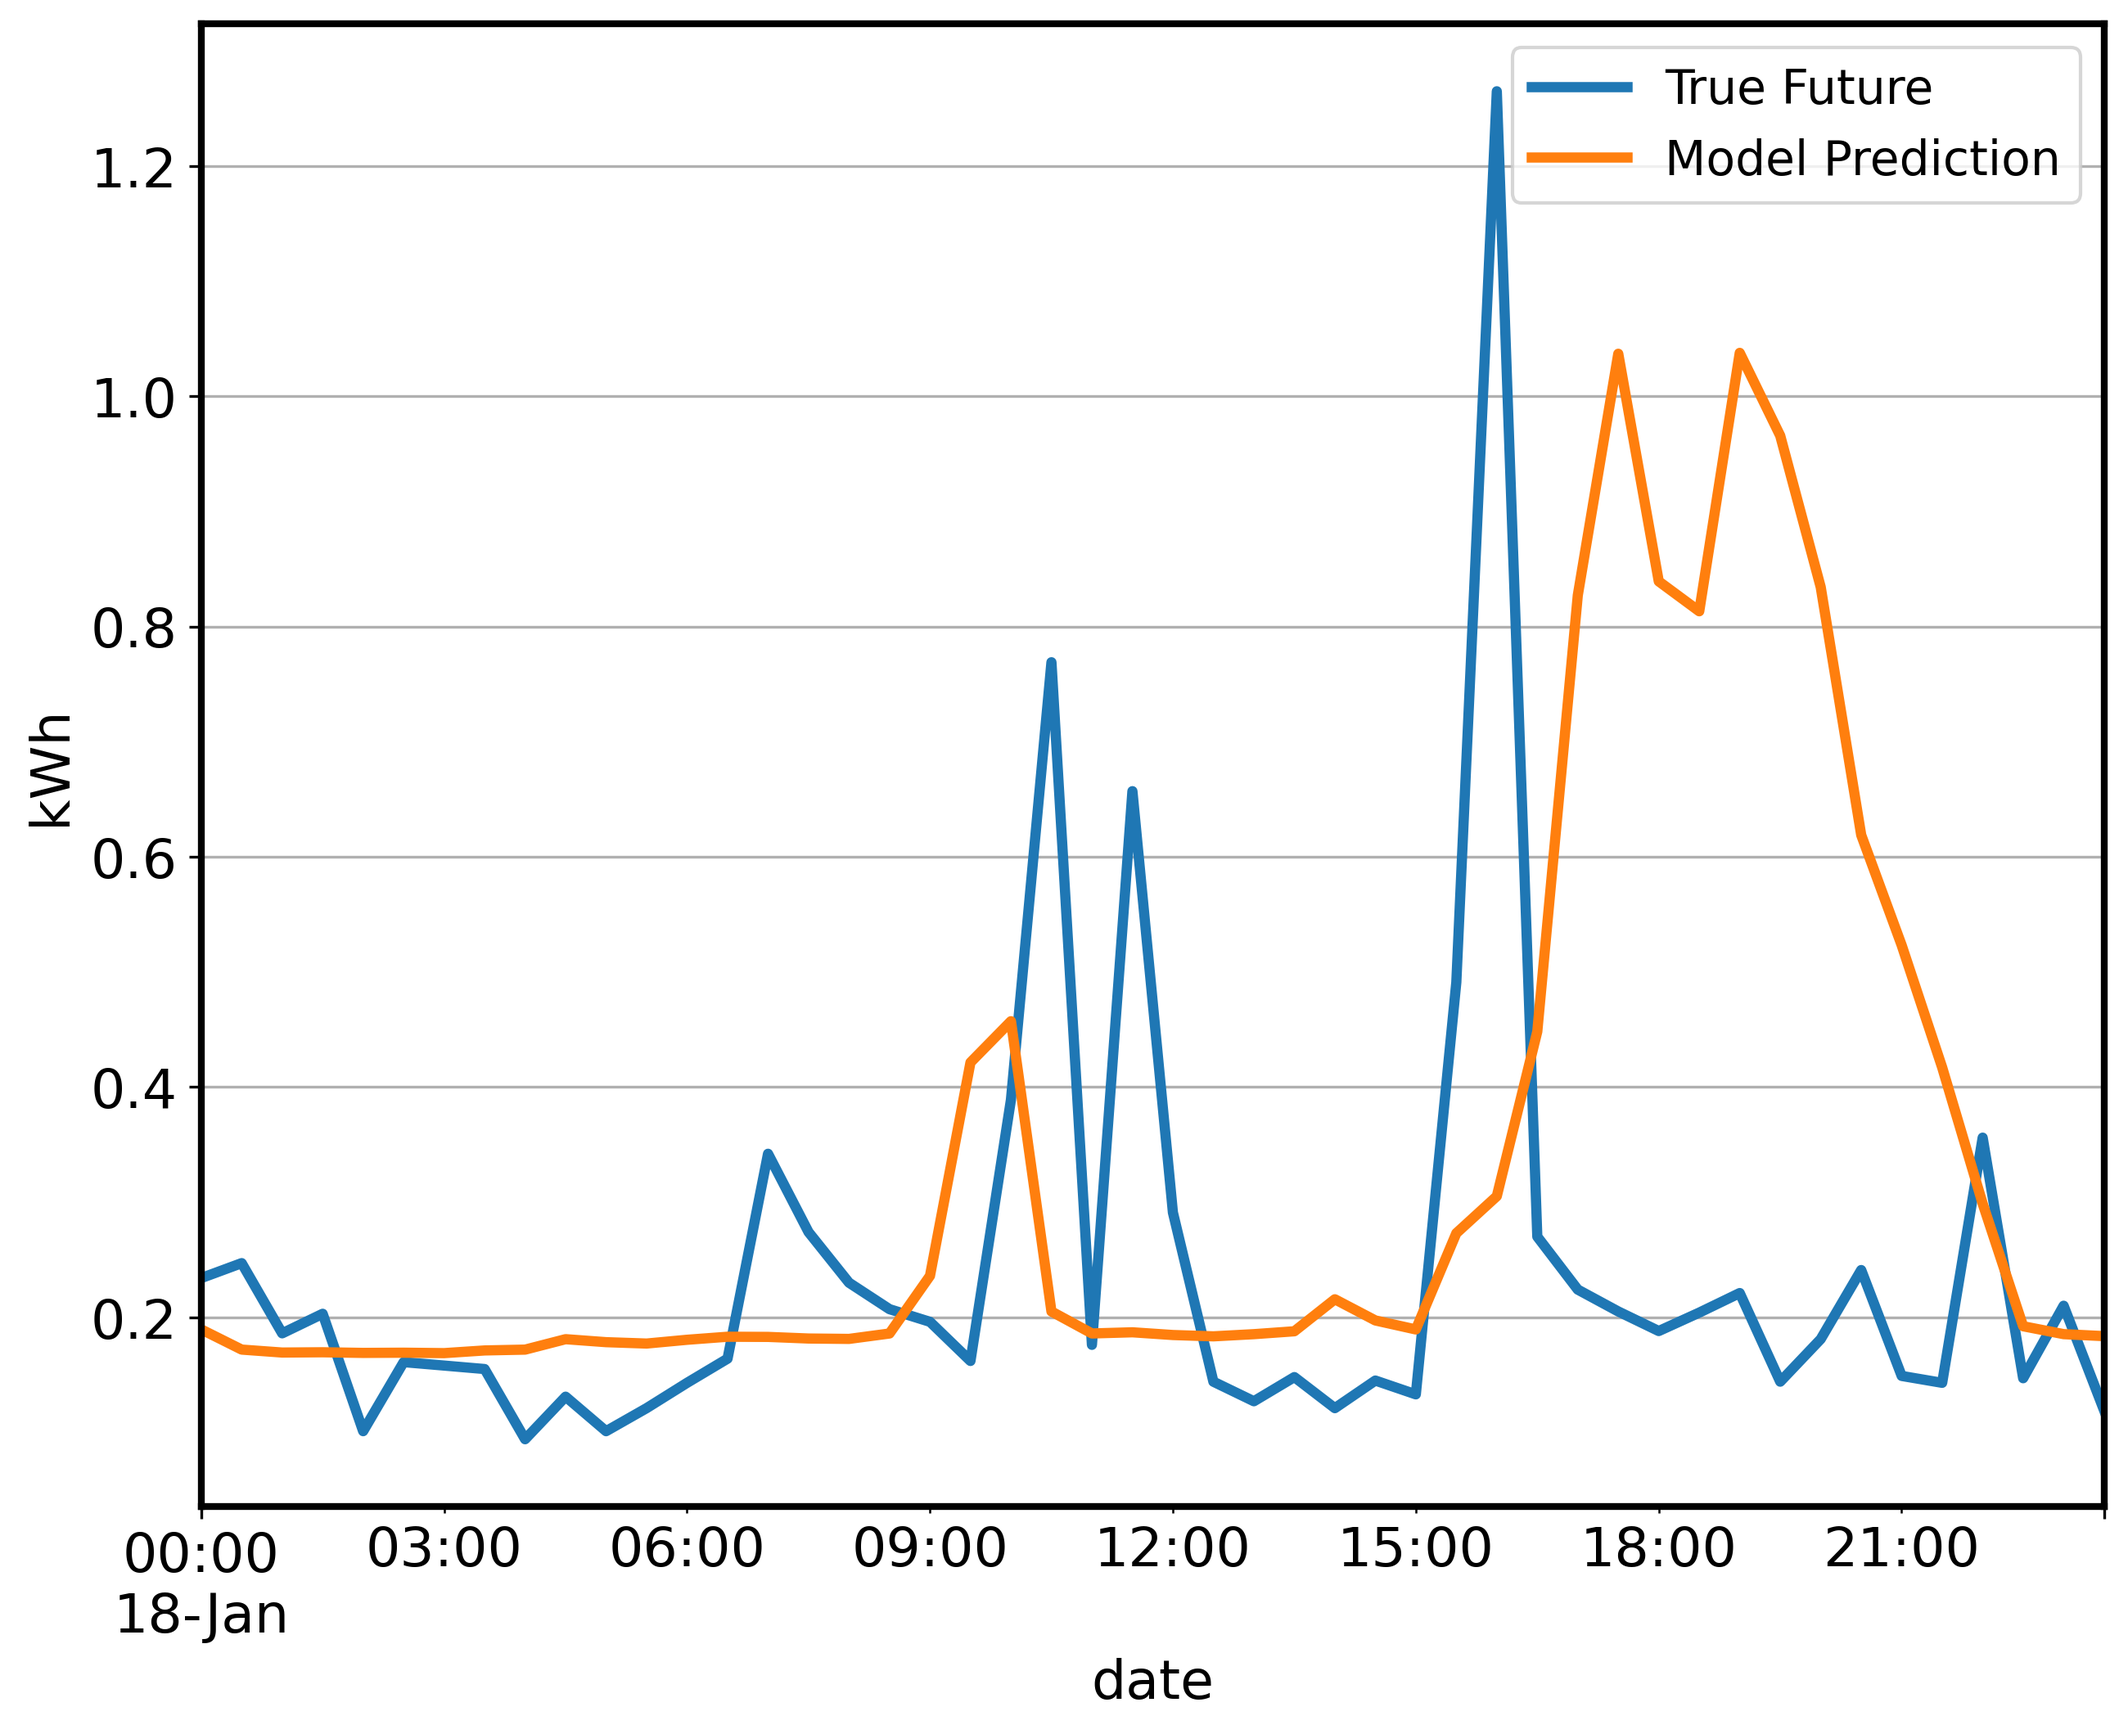
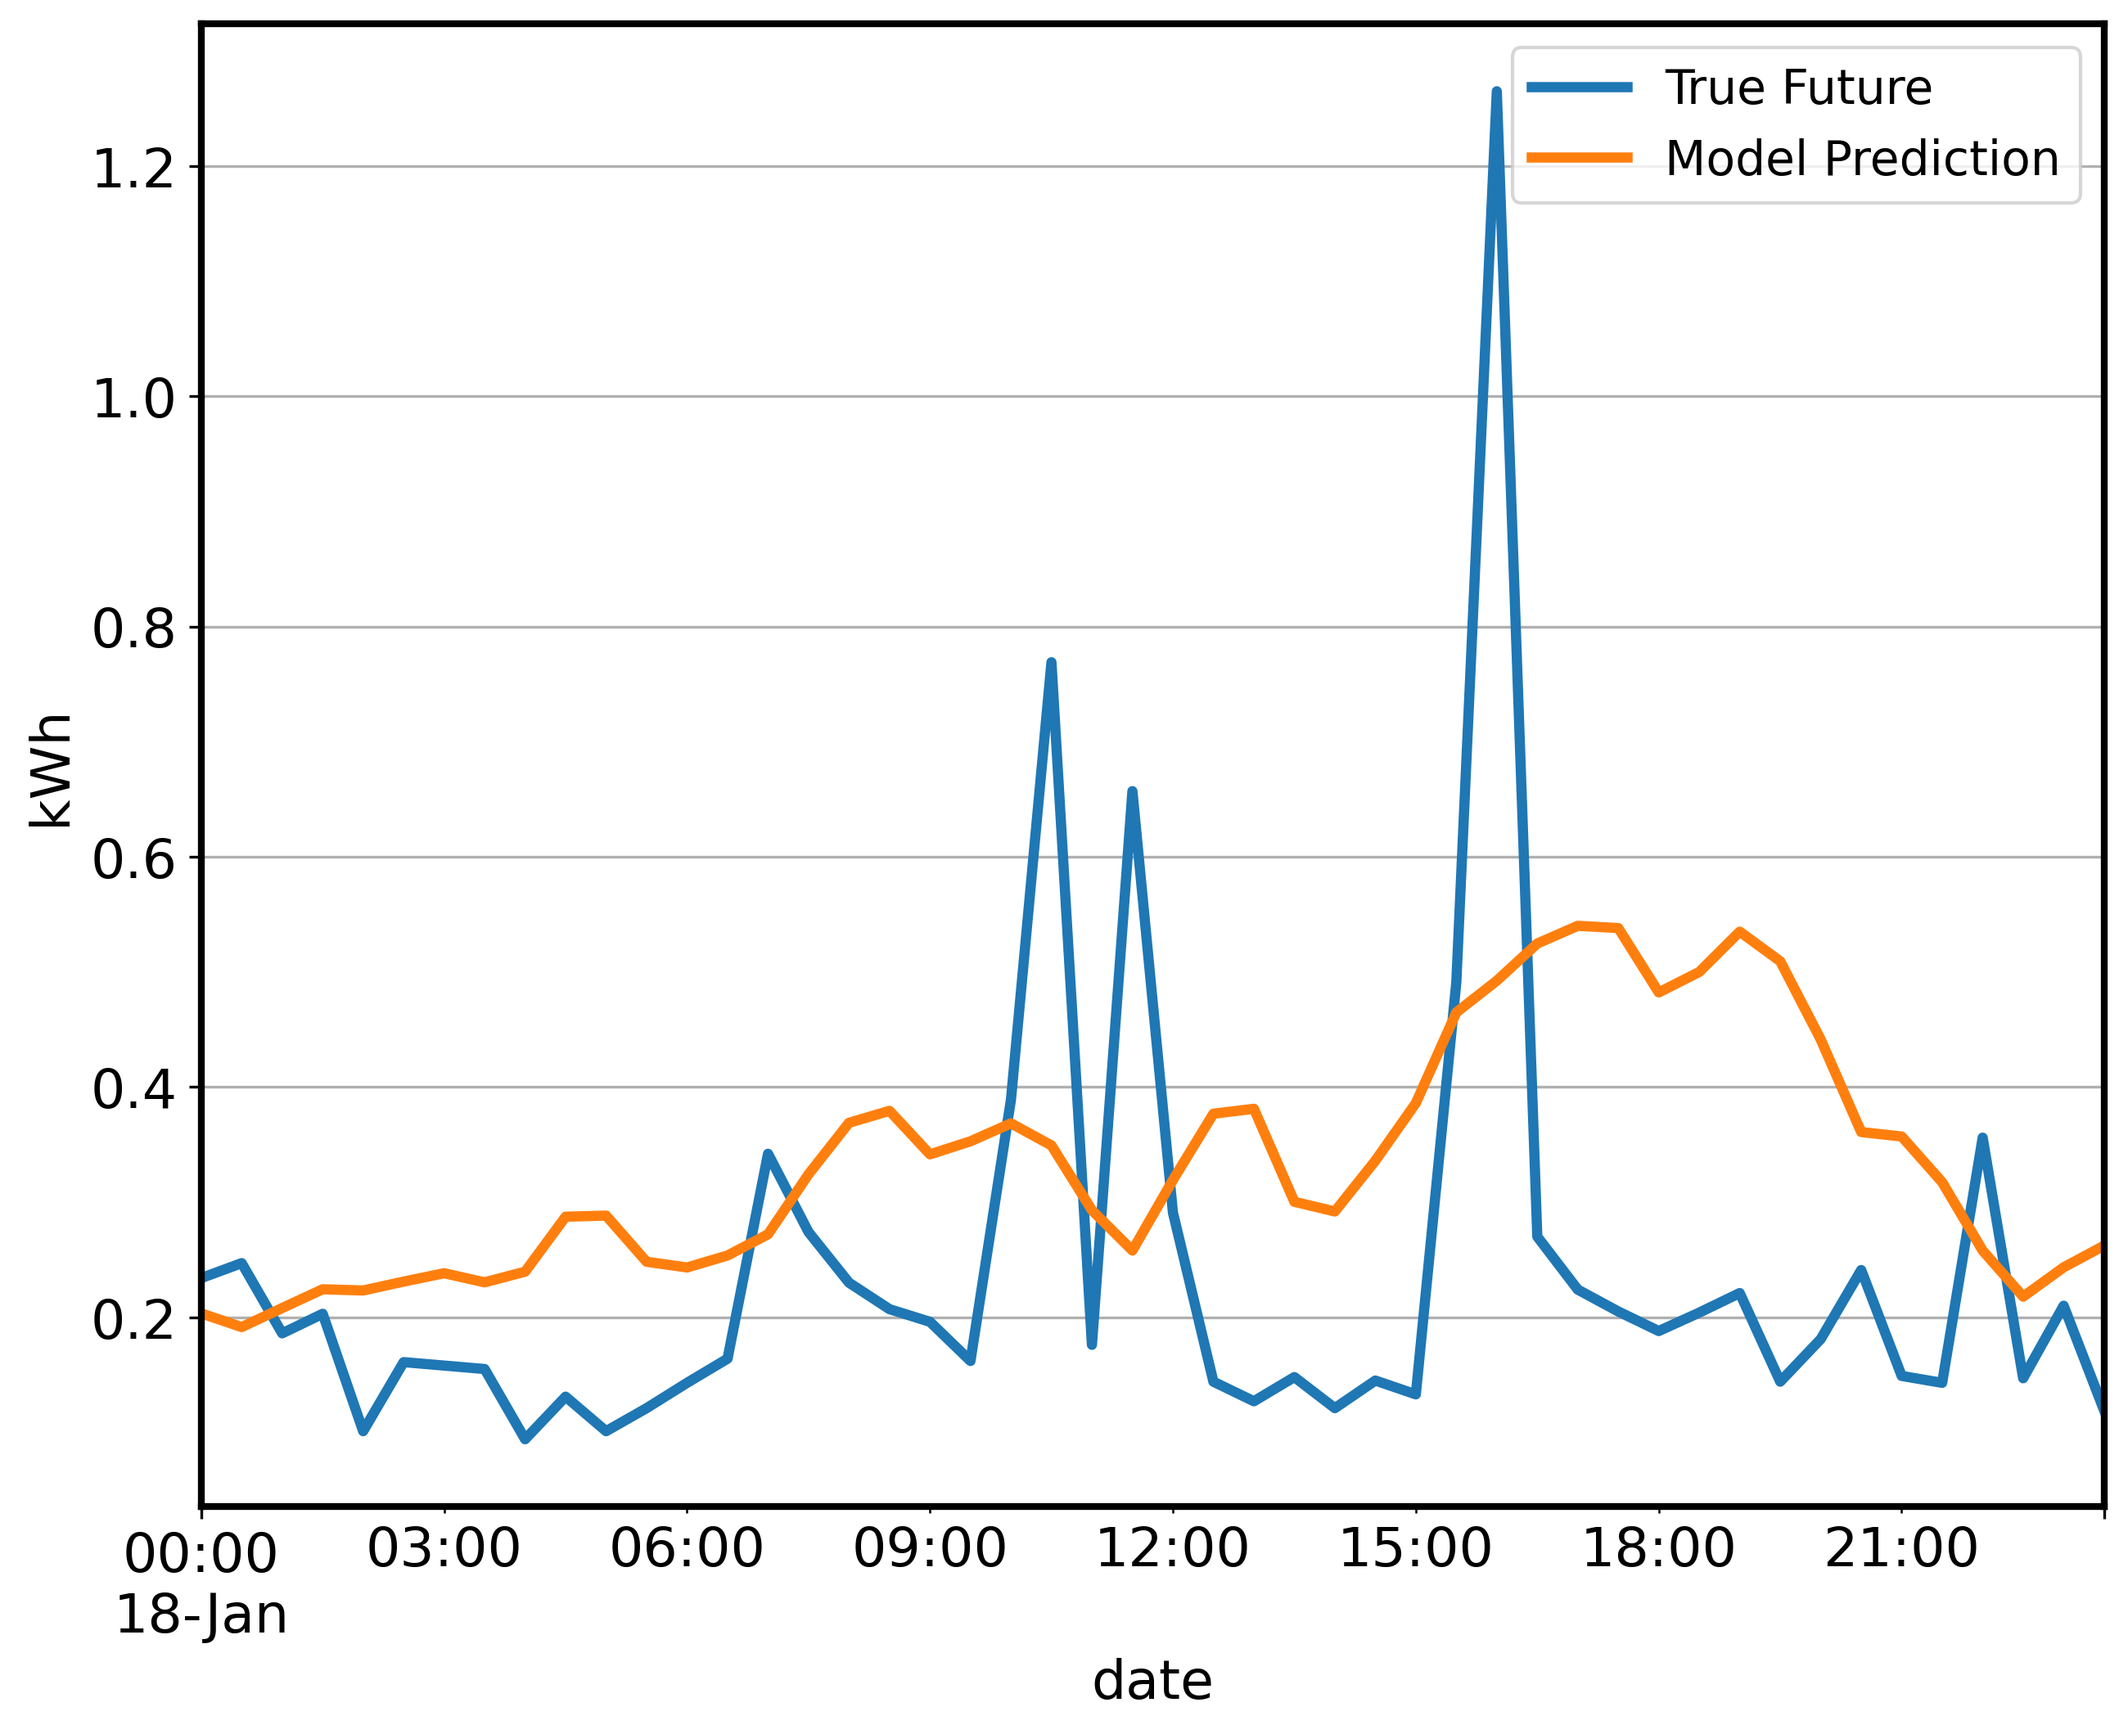
update

diff --git a/Forecasting/LSTM/forecasting_functions.py b/Forecasting/LSTM/forecasting_functions.py
@@ -8,7 +8,7 @@ wn.filterwarnings(action='ignore')
 from Test_basemodel_functions import EnglandAndWalesHolidayCalendar
 from keras.layers import Dense,  LSTM,Embedding
 from keras.models import Sequential, save_model, load_model
-from keras import regularizers
+from keras import regularizers, optimizers
 from keras.callbacks import EarlyStopping,ModelCheckpoint, History
 
 from Test_basemodel_functions import Switcher
@@ -16,7 +16,7 @@ from Test_basemodel_functions import Switcher
 
 class forecast_setting:
 
-    def __init__(self, units_LSTM = 20, units_dense = 20, patience = 5, shuffle = False, lag_value = 3, nb_epoch = 1, regularization_parameter = 0.001, batch_size_para = 32, repeat = 10, activation: str = 'tanh', dropout: bool = False, amount_layers = 1):
+    def __init__(self, units_LSTM = 20, layers_LSTM = 1, units_dense = 20, layers_dense = 1, patience = 5, shuffle = False, lag_value = 3, nb_epoch = 1, regularization_parameter = 0.001, batch_size_para = 32, repeat = 10, activation: str = 'tanh', learning_rate: float = 0.001, dropout: bool = False, amount_layers = 1):
         self.lag_value = lag_value
         self.nb_epoch = nb_epoch
         self.regularization_parameter = regularization_parameter
@@ -28,6 +28,9 @@ class forecast_setting:
         self.activation = activation
         self.patience = patience
         self.shuffle = shuffle
+        self.learning_rate = learning_rate
+        self.layers_LSTM = layers_LSTM
+        self.layers_dense = layers_dense
 
     # def set_evaluation:
 
@@ -114,11 +117,20 @@ def build_model_stateless1(setting: forecast_setting, X, y, X_val, y_val, verbos
 
     history = History()
     regularizers.l2(l=setting.regularization_parameter)
+    optimizers.Adam(learning_rate=setting.learning_rate)
     model = Sequential()
     # no initial state is given --> hidden state are tensors filled with zeros
     # dropout=None,recurrent_dropout=None
-    model.add(LSTM(units=setting.units_LSTM,activation= setting.activation,batch_input_shape=(None,X.shape[1],X.shape[2]))) # no need to specify the batch size when stateless
-    model.add(Dense(units=setting.units_dense,activation='relu',kernel_regularizer='l2'))
+    if setting.layers_LSTM == 1:
+        model.add(LSTM(units=setting.units_LSTM, activation=setting.activation, batch_input_shape=(None, X.shape[1], X.shape[2])))  # no need to specify the batch size when stateless
+    else:
+        model.add(LSTM(units=setting.units_LSTM, activation=setting.activation, return_sequence = True, batch_input_shape=(None, X.shape[1], X.shape[2])))  # no need to specify the batch size when stateless
+        for _ in np.arange(1,setting.layers_LSTM-1):
+            model.add(LSTM(units=setting.units_LSTM, activation=setting.activation, return_sequence=True))
+        model.add(LSTM(units=setting.units_LSTM, activation=setting.activation))
+
+    for _ in range(setting.layers_dense):
+        model.add(Dense(units=setting.units_dense,activation='relu',kernel_regularizer='l2'))
     # model.add(Dropout(0.10))
     model.add(Dense(units=y.shape[1],activation='relu',kernel_regularizer='l2'))
     model.compile(optimizer='adam',loss='mse')
@@ -135,7 +147,9 @@ def build_model_stateless1(setting: forecast_setting, X, y, X_val, y_val, verbos
 def build_model_stateful1(setting: forecast_setting, X, y, X_val, y_val, verbose_para: int = 1, save: bool = False, reset_after_epoch: bool = True):
 
     history = History()
+    epoch_count = 0
     regularizers.l2(l=setting.regularization_parameter)
+    optimizers.Adam(learning_rate=setting.learning_rate)
     model = None
     weights = None
     loss = []
@@ -148,30 +162,43 @@ def build_model_stateful1(setting: forecast_setting, X, y, X_val, y_val, verbose
             batch_size = 1
         model = Sequential()
         # dropout=None,recurrent_dropout=None
-        model.add(LSTM(units=setting.units_LSTM,stateful= True, activation= setting.activation,batch_input_shape=(batch_size,X.shape[1],X.shape[2])))
-        model.add(Dense(units=setting.units_dense,activation='relu',kernel_regularizer='l2'))
+        if setting.layers_LSTM == 1:
+            model.add(LSTM(units=setting.units_LSTM, activation=setting.activation, return_state= True, batch_input_shape=(batch_size, X.shape[1], X.shape[2])))  # no need to specify the batch size when stateless
+        else:
+            model.add(LSTM(units=setting.units_LSTM, activation=setting.activation, return_state= True, return_sequence=True, batch_input_shape=(batch_size, X.shape[1], X.shape[2])))
+            for _ in np.arange(1, setting.layers_LSTM - 1):
+                model.add(LSTM(units=setting.units_LSTM, activation=setting.activation, return_state= True, return_sequence=True))
+            model.add(LSTM(units=setting.units_LSTM, activation=setting.activation, return_state= True))
+
+        for _ in range(setting.layers_dense):
+            model.add(Dense(units=setting.units_dense, activation='relu', kernel_regularizer='l2'))
         # model.add(Dropout(0.10))
-        model.add(Dense(units=y.shape[1],activation='relu',kernel_regularizer='l2'))
+        model.add(Dense(units=y.shape[1], activation='relu', kernel_regularizer='l2'))
         model.compile(optimizer='adam',loss='mse')
         early_stopping_monitor = EarlyStopping(patience=setting.patience,restore_best_weights=True)
         if i == 0:
             for k in range(setting.nb_epoch):
                 model.fit(x=X,y=y,epochs=1,shuffle= setting.shuffle, batch_size=setting.batch_size_parameter,validation_data=(X_val,y_val),callbacks=[early_stopping_monitor,history],verbose=verbose_para)
+                epoch_count = k+1
+                print("Epoch number: %s/%s."%(epoch_count,setting.nb_epoch))
                 loss.append(history.history['loss'][0])
-                val_loss.append(history.history['val_loss'][0])
-                if len(tracking) == setting.patience + 1:
-                    break
-                if val_loss < tracking[0]:
-                    weigths = model.get_weights()
-                    tracking = [val_loss]
-                else:
-                    tracking.append(val_loss)
+                current_val_lost = history.history['val_loss'][0]
+                val_loss.append(current_val_lost)
 
+                if current_val_lost < tracking[0]:
+                    weights = model.get_weights()
+                    tracking = [current_val_lost]
+                else:
+                    tracking.append(current_val_lost)
+                    if len(tracking) == setting.patience + 1:
+                        break
                 if reset_after_epoch:
                     model.reset_states()
         else:
             # Now the batch size is changed to one
             model.set_weights(weights)
+    history.history['loss'] = loss
+    history.history['val_loss'] = val_loss
     # save the trained_model
     if save:
         file_path = "model.h5"
